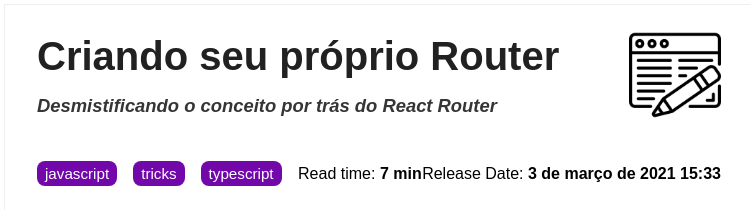
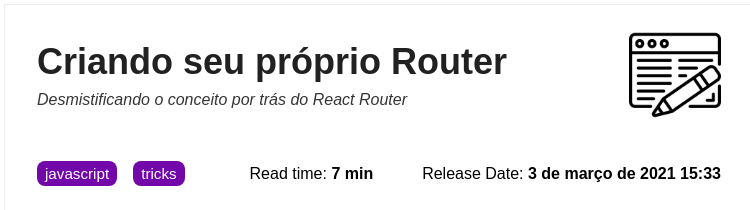
feat: rebuild opengraph images

Changed region(s): [[0.0307, 0.1714, 0.7667, 0.4], [0.0307, 0.4286, 0.6747, 0.5429], [0.2453, 0.7429, 0.5827, 0.8857]]

diff --git a/open-graph-bot/template.html b/open-graph-bot/template.html
@@ -48,14 +48,16 @@
         }
 
         #header h1 {
-            font-size: 2.5rem;
-            margin-bottom: 1rem;
+            font-size: 2.25rem;
+            margin-bottom: 0.5rem;
+            font-weight: 900;
             color: #212121;
         }
 
         #header h3 {
-            font-size: 1.15rem;
+            font-size: 1rem;
             font-style: italic;
+            font-weight: 100;
             color: #353535;
         }
 

diff --git a/open-graph-bot/bot.ts b/open-graph-bot/bot.ts
@@ -30,7 +30,10 @@ const server = http.createServer((req, res) => {
     const data = {
       title: metadata.title,
       description: metadata.description,
-      tags: metadata.subjects.map((x) => `<li>${x}</li>`).join(" "),
+      tags: metadata.subjects
+        .map((x) => `<li>${x}</li>`)
+        .slice(0, 2)
+        .join(" "),
       releaseDate: new Intl.DateTimeFormat("pt-BR", {
         year: "numeric",
         month: "long",
